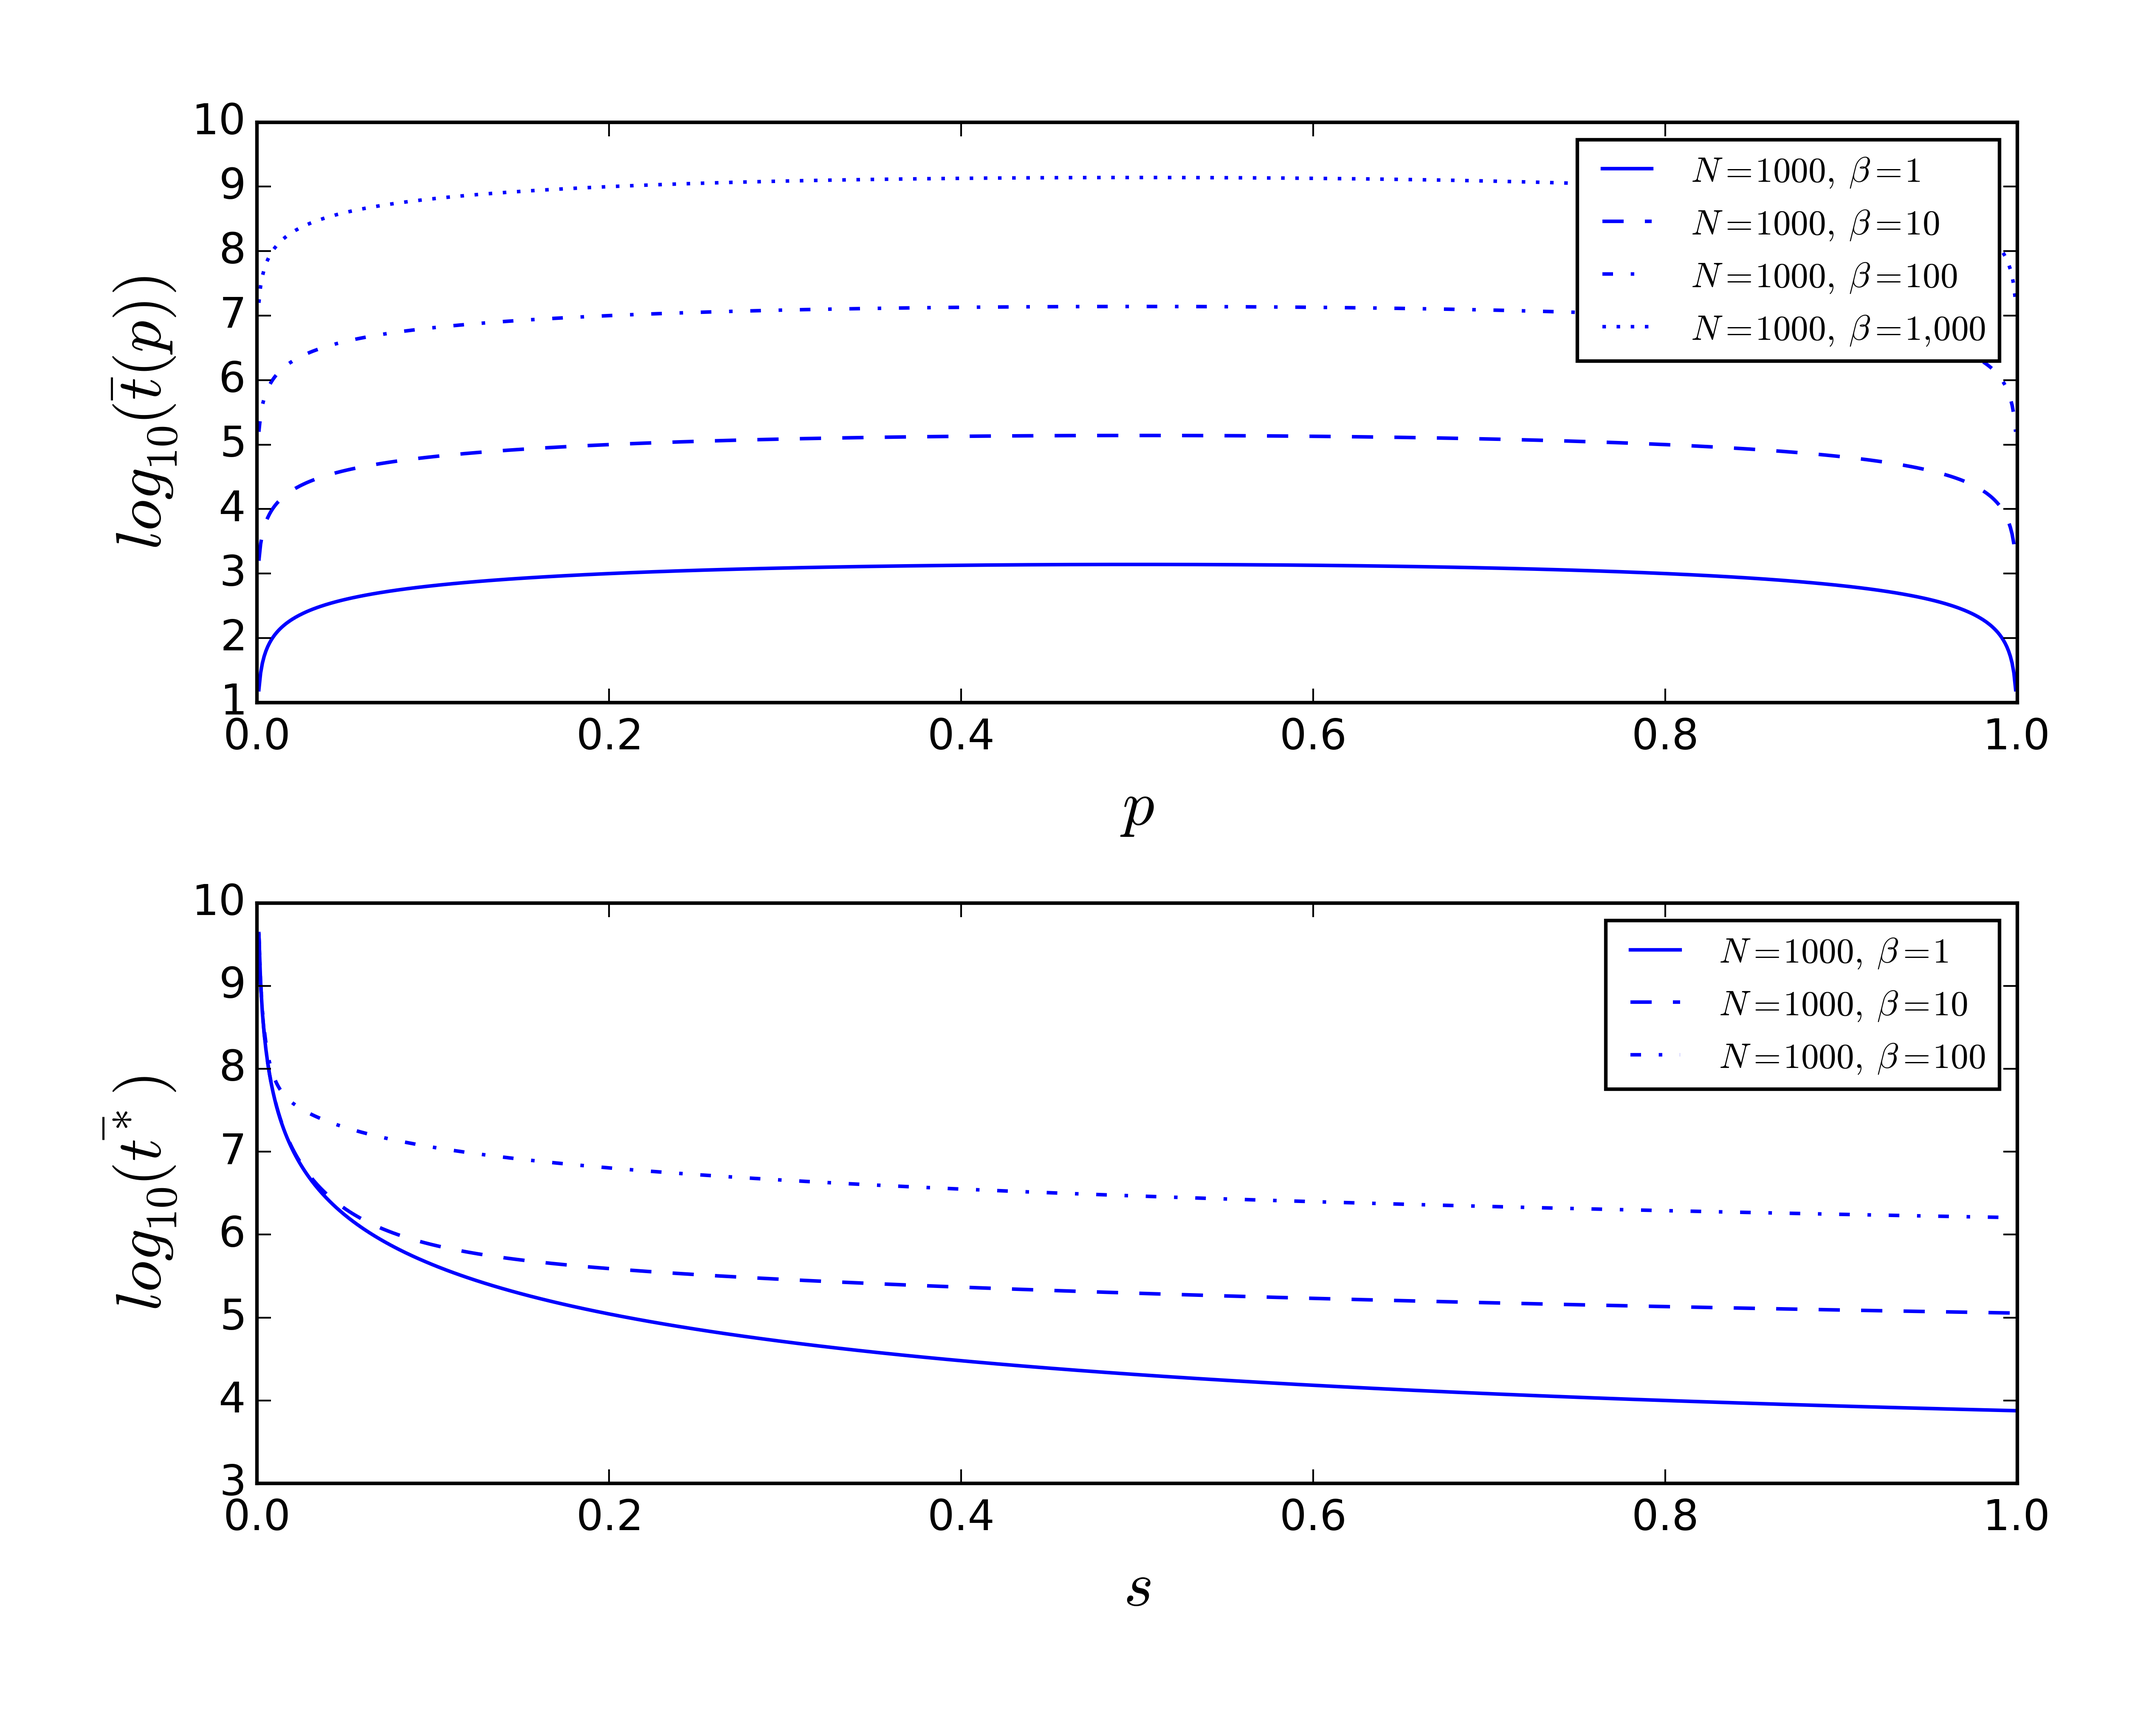
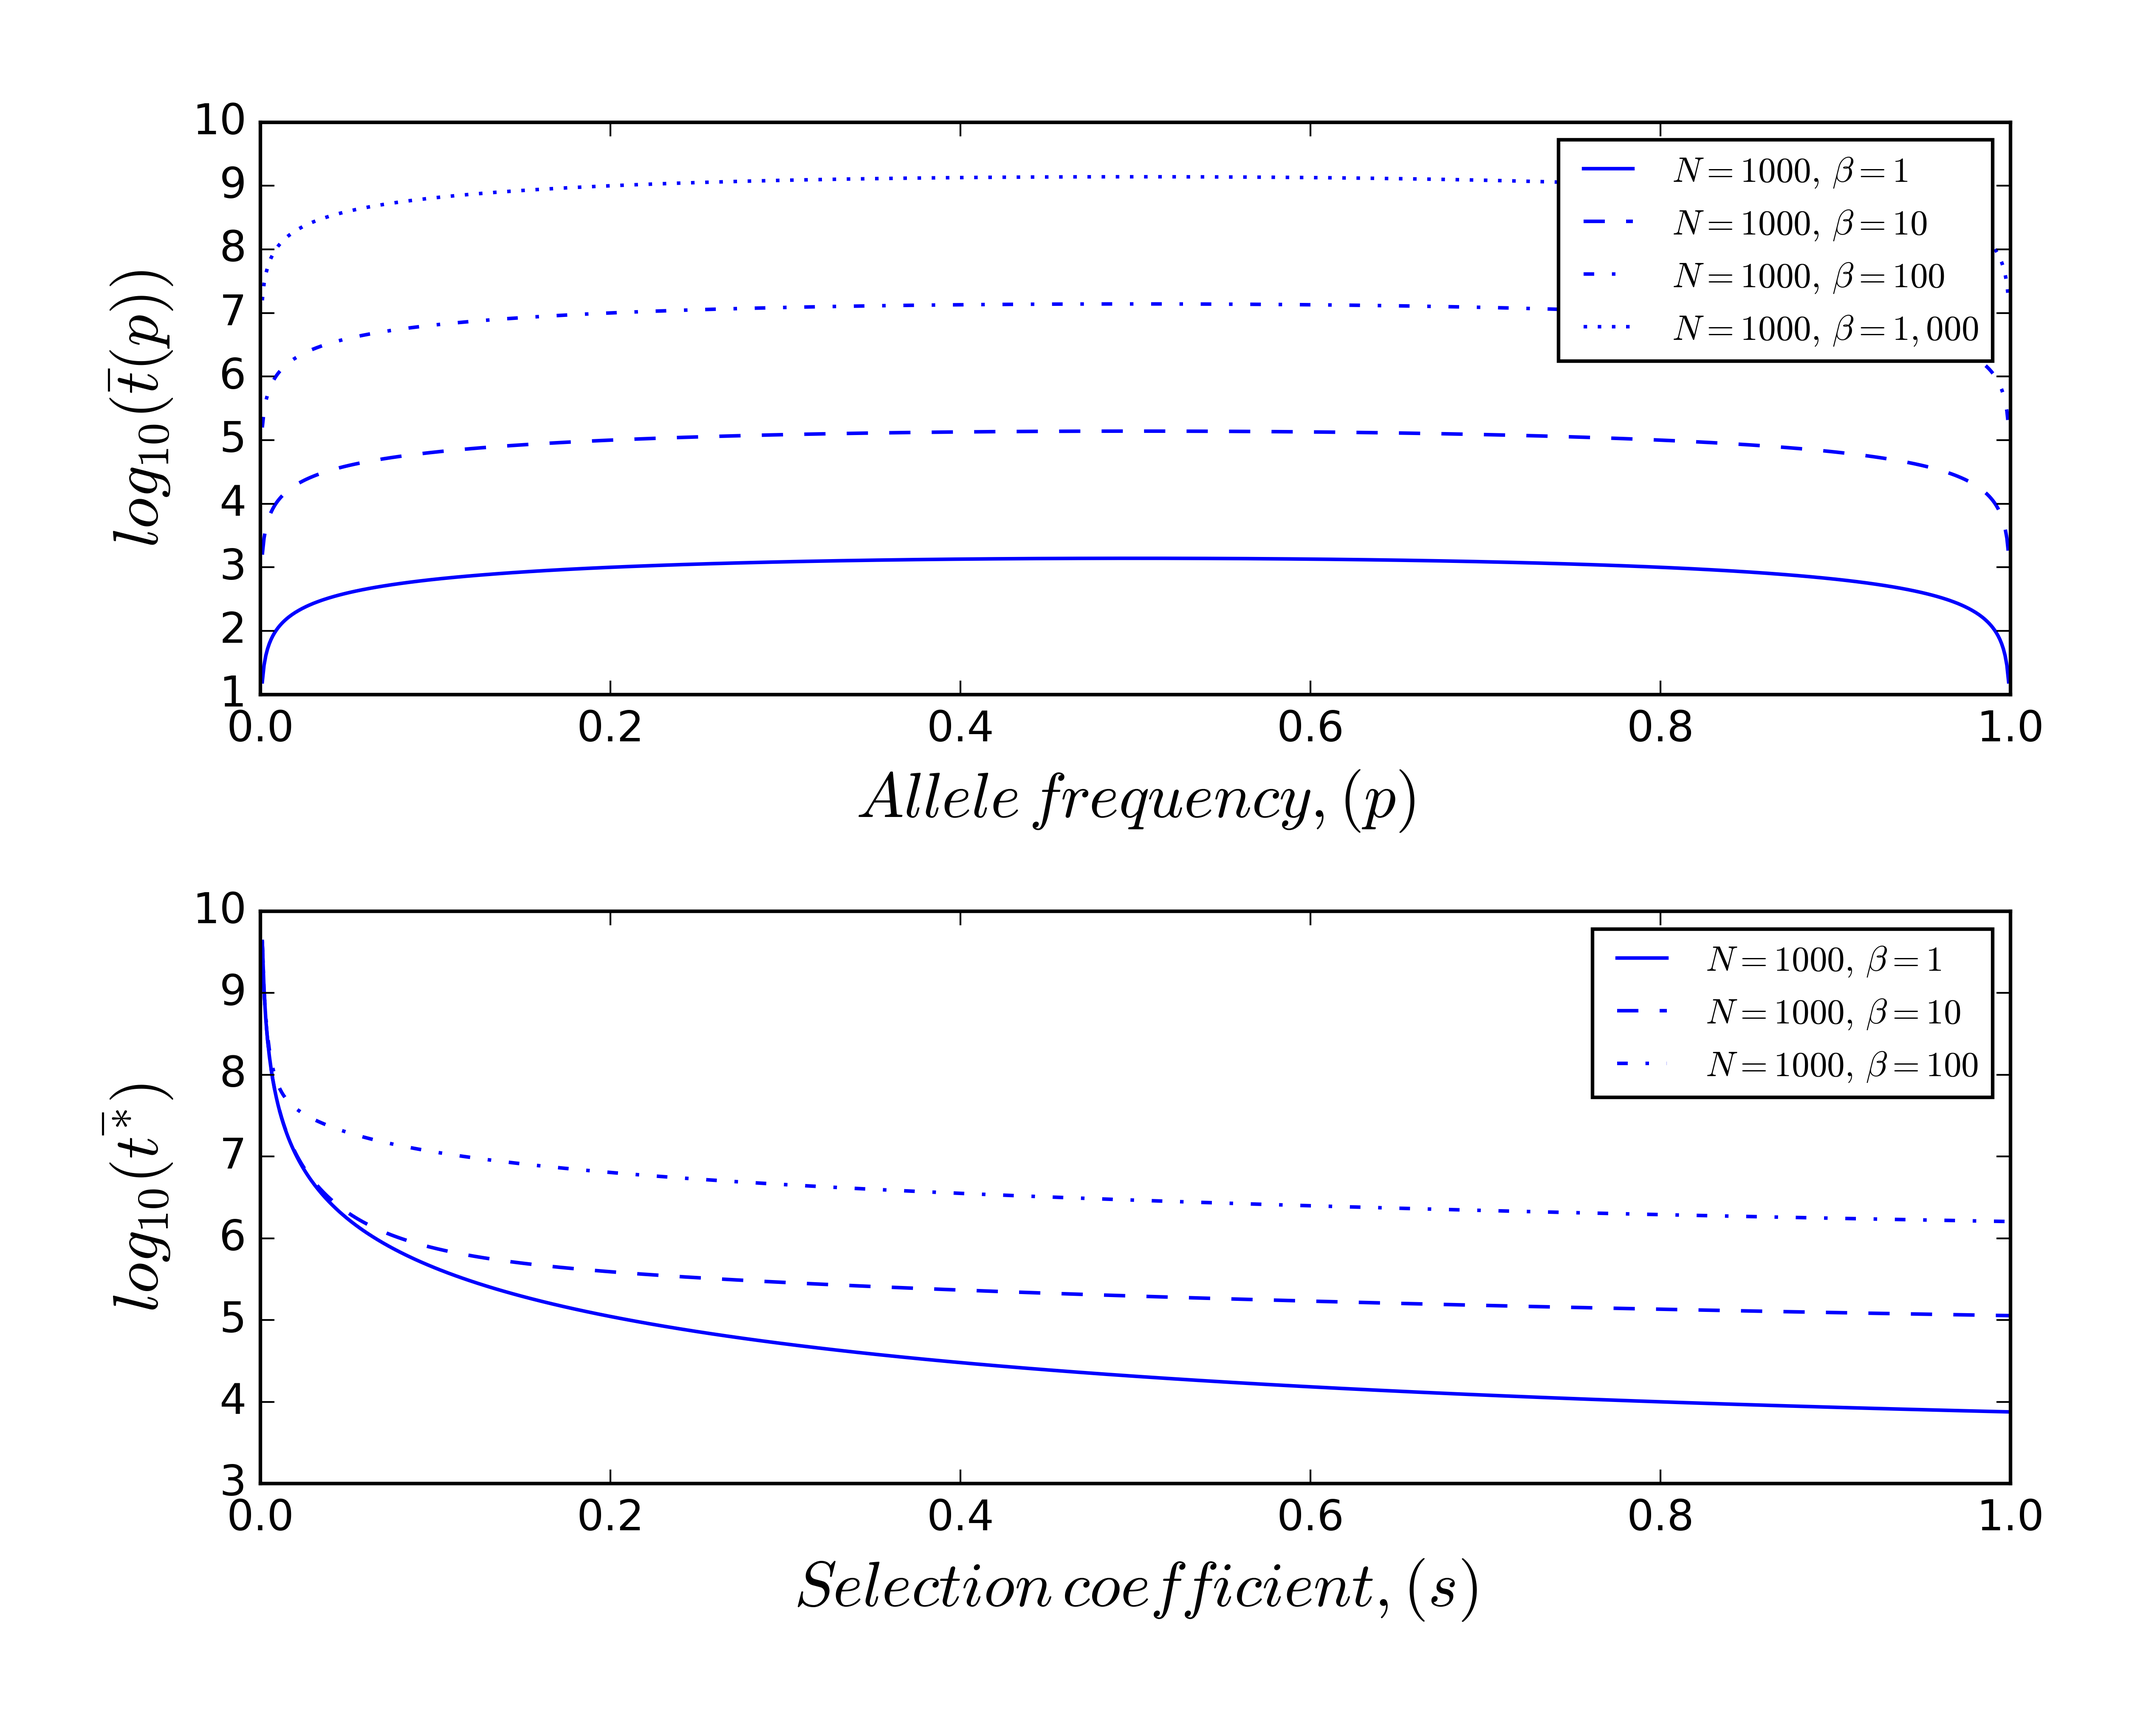
misc

diff --git a/Prelim_Fig/Rewrite/both.py b/Prelim_Fig/Rewrite/both.py
@@ -41,7 +41,7 @@ plt.plot(p, line4, color = 'b',linestyle = ':', label=r'$N = 1000,\, \beta = 1,0
 
 plt.tight_layout()
 plt.ylabel(r'$log_{10}(\bar{t}(p))$', fontsize = 18, rotation = 90)
-plt.xlabel(r'$p$', fontsize = 18)
+plt.xlabel(r'$Allele \,frequency, (p)$', fontsize = 18)
 plt.legend(loc='upper right', prop={'size':10})
 
 #fig.legend(bbox_to_anchor=(1.05, 1), loc=2, borderaxespad=0.)
@@ -78,7 +78,7 @@ plt.plot(p, line3, color = 'b',linestyle = '-.', label=r'$N = 1000,\, \beta = 10
 
 plt.tight_layout()
 plt.ylabel(r'$log_{10}(\bar{t^{*}})$', fontsize = 18, rotation = 90)
-plt.xlabel(r'$s$', fontsize = 18)
+plt.xlabel(r'$Selection\, coefficient,(s)$', fontsize = 18)
 output = "time_fixation_select_both.png"
 plt.legend(loc='upper right', prop={'size':10})
 

diff --git a/I529/Hmk5/Hmk5.md b/I529/Hmk5/Hmk5.md
@@ -5,9 +5,9 @@
 
 -1 We start with random emission symbols as a sequence and calculate the probability with our HMM.
 
--2 We then select a random sequence, remove the random motif and recalculate the model.
+-2 We then select a random sequence, remove the random motif and recalculate model parameters.
 
--3 Then we calculate the probability
+-3 calculate the maximal total emission probability given the HMM with updated parameters 
 
 -4 Update the model and continue iterating 
 
@@ -34,3 +34,7 @@ We should be able to just use maxmum likelihood.
 
 
 **5)**
+
+-1 Because this is a network, to bredict $$X_{2}$$, the number of combination that we need to calculate the probabilities for is constrained. This problem constrains the number of possible seasons to two choices through the distribution $$P(X_{2} = salmon\mid X_{1})$$. We also know that the fish is thin. So, we have to calculate $$2 * 2 * 3 * 1 = 12$$ probabilities. We are asking $$P(X_{2} \mid X_{4} = thin, X_{1}, X{3})$$ From here the probability that we have a salmon is ~ 0.986, so we likely have a salmon. 
+
+-2 Again, the number of calculations are constrained. We want to know $$P(X_{1} \mid X_{4} = thin, X_{3} = medium, X{2})$$ using the prior $$P(X{1})= (0.25,0.25,0.25, 0.25)$$. So we need a total of 4 * 2 * 1* 1 = 8 calculations. It is most likely winter with probability ~0.372
